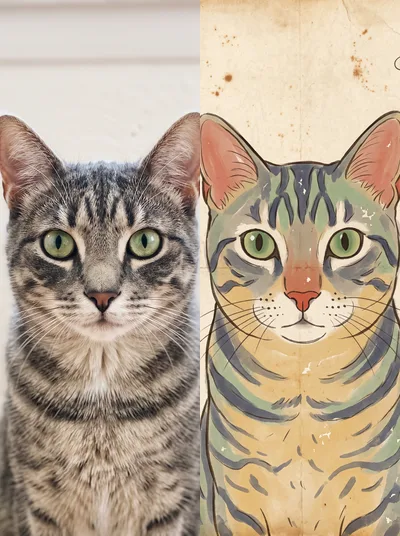
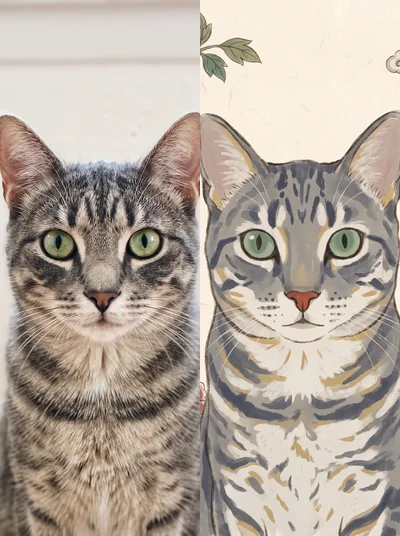
feat: 유화 2종 개명 + 790 민화 종이 세월감 완화
■ 유화 2종 개명 (오너 승인)
  401 임파스토 유화 → 두꺼운 유화 / Impasto Oil Painting → Thick Oil Painting
  786 피규러티브 유화 → 딥그린 유화 / Figurative Oil Portrait → Deep Green Oil Portrait

  같은 사진 4명(20대 여성·강아지·60대 여성·40대 남성)으로 전수 비교한 결과
  둘의 차이는 일관됐다 — 401 은 원본 배경을 유지하고 물감 두께가 도드라지며
  디테일을 살리고, 786 은 무조건 짙은 초록 배경에 면을 뭉개고 이목구비를
  암시만 한다. 다만 제목이 미술 용어라 갤러리에서 "유화 두 개" 로만 보였다.
  → 실제로 눈에 보이는 차이(배경)를 제목에 넣어 구분되게 했다. 둘 다 유지.

  ⚠ 부수 효과: 330(예술/클래식)도 제목이 "피규러티브 유화" 로 786 과 완전히
     같았다. 이번 개명으로 그 충돌이 해소됐다. 330 자체는 건드리지 않았다
     (제목·영문·프롬프트·카테고리 그대로 확인).

■ 790 민화 — 종이 세월감이 과했다
  오너 지적: "종이 질감 너무 aged임. 색감은 좋음."
  직전 커밋에서 갈변·반점·물얼룩·접힌자국·올풀림까지 넣었더니 그림이 아니라
  낡은 종이가 주인공이 됐다.
  → 종이는 깨끗한 따뜻한 아이보리 한지로 되돌리고, 손상 요소를 전부 금지했다.
    "세월은 종이가 아니라 안료에서 드러난다" 로 방향을 바꿔, 바랜 먹선·탁해진
    석채·낮은 대비(색감)는 그대로 유지했다.

검증: 고등어 고양이 / 20대 여성 2종으로 전후 비교. 종이만 깨끗해지고 색감은
그대로다. 썸네일도 교체.

총 627종 / 폴백 349종, 썸네일 누락 0.
sw v74 → v75.

diff --git a/public/sw.js b/public/sw.js
@@ -10,7 +10,7 @@
 // 새 버전 배포 시: 아래 VERSION 만 올리면 됨.
 // ============================================================
 
-const VERSION = "v74";
+const VERSION = "v75";
 const STATIC_CACHE = `rimikimi-static-${VERSION}`;
 const THUMB_CACHE = `rimikimi-thumbs-${VERSION}`;
 const DATA_CACHE = `rimikimi-data-${VERSION}`;
